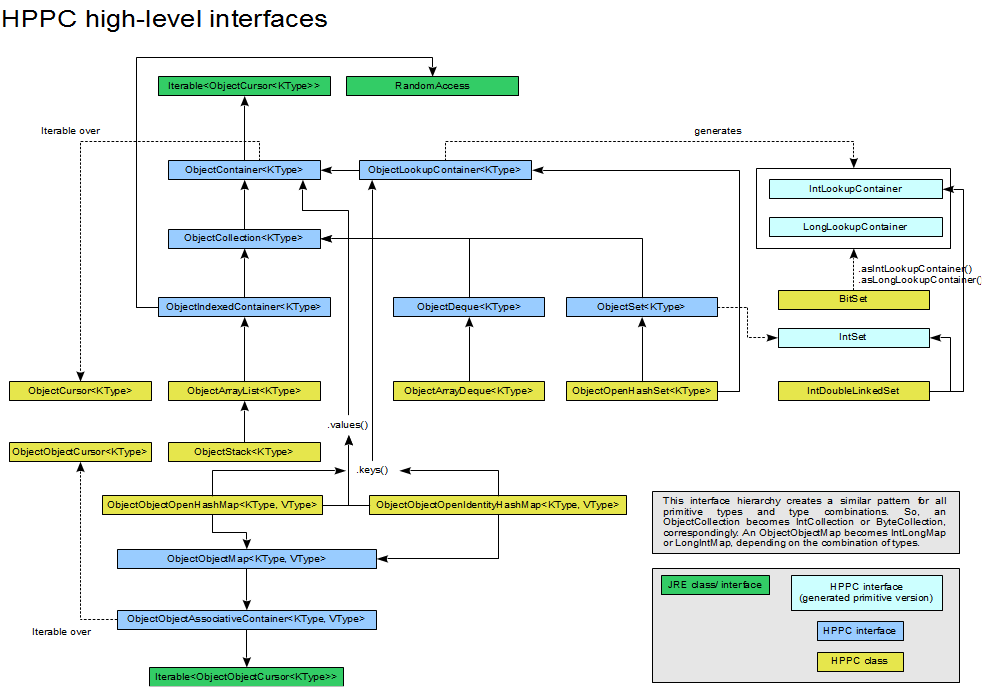
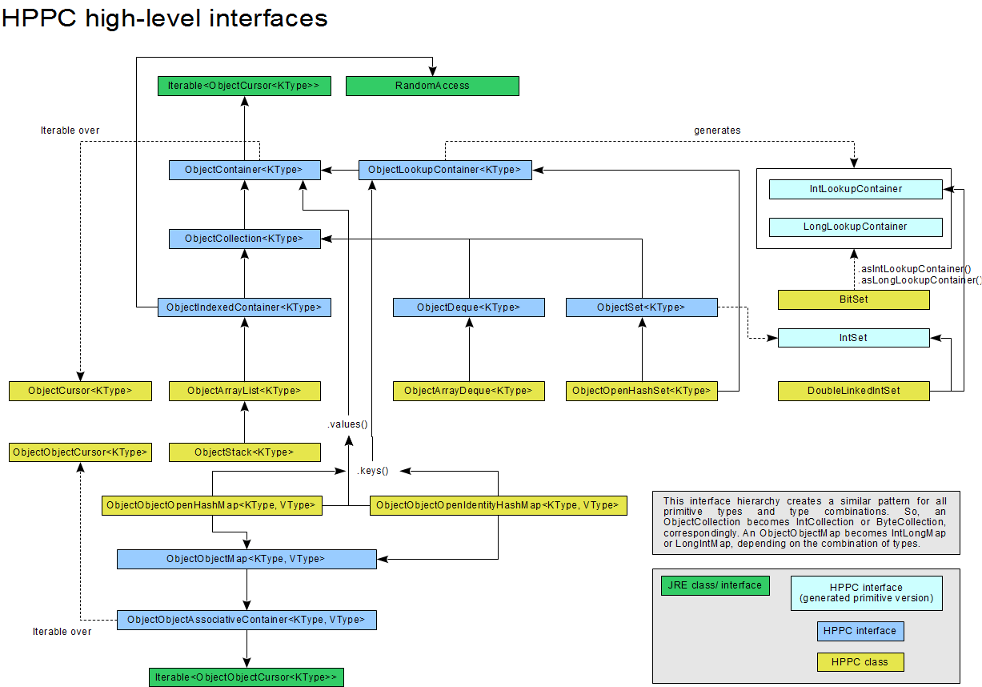
HPPC-108: Rename IntDoubleLinkedSet to DoubleLinkedIntSet

diff --git a/hppc/src/main/java/com/carrotsearch/hppc/DoubleLinkedIntSet.java b/hppc/src/main/java/com/carrotsearch/hppc/DoubleLinkedIntSet.java
@@ -18,7 +18,7 @@ import static com.carrotsearch.hppc.Containers.*;
  * <a href="http://citeseerx.ist.psu.edu/viewdoc/summary?doi=10.1.1.30.7319">
  * Preston Briggs and Linda Torczon's paper "An Efficient Representation for Sparse Sets"</a></p>
  */
-public class IntDoubleLinkedSet implements IntLookupContainer, IntSet, Cloneable
+public class DoubleLinkedIntSet implements IntLookupContainer, IntSet, Cloneable
 {
     /**
      * Dense array of set elements. 
@@ -45,7 +45,7 @@ public class IntDoubleLinkedSet implements IntLookupContainer, IntSet, Cloneable
      * 
      * @see BoundedProportionalArraySizingStrategy
      */
-    public IntDoubleLinkedSet()
+    public DoubleLinkedIntSet()
     {
         this(DEFAULT_EXPECTED_ELEMENTS, 0);
     }
@@ -59,7 +59,7 @@ public class IntDoubleLinkedSet implements IntLookupContainer, IntSet, Cloneable
      * 
      * @see BoundedProportionalArraySizingStrategy
      */
-    public IntDoubleLinkedSet(int denseCapacity, int sparseCapacity)
+    public DoubleLinkedIntSet(int denseCapacity, int sparseCapacity)
     {
         this(denseCapacity, sparseCapacity, new BoundedProportionalArraySizingStrategy());
     }
@@ -69,7 +69,7 @@ public class IntDoubleLinkedSet implements IntLookupContainer, IntSet, Cloneable
      * 
      * @see #ensureCapacity
      */
-    public IntDoubleLinkedSet(int expectedElements, int maxElementValue, ArraySizingStrategy resizer)
+    public DoubleLinkedIntSet(int expectedElements, int maxElementValue, ArraySizingStrategy resizer)
     {
         assert expectedElements >= 0 : "Expected elements must be >= 0: " + expectedElements;
         assert maxElementValue >= 0 : "Max element value must be >= 0: " + maxElementValue;
@@ -82,7 +82,7 @@ public class IntDoubleLinkedSet implements IntLookupContainer, IntSet, Cloneable
     /**
      * Creates a set from elements of another container.
      */
-    public IntDoubleLinkedSet(IntContainer container)
+    public DoubleLinkedIntSet(IntContainer container)
     {
         this(container.size(), 1 + maxElement(container));
         for (IntCursor cursor : container)
@@ -420,10 +420,10 @@ public class IntDoubleLinkedSet implements IntLookupContainer, IntSet, Cloneable
      * Create a set from a variable number of arguments or an array of <code>int</code>.
      * The elements are copied from the argument to the internal buffer.
      */
-    public static IntDoubleLinkedSet from(int... elements)
+    public static DoubleLinkedIntSet from(int... elements)
     {
-        final IntDoubleLinkedSet set = 
-            new IntDoubleLinkedSet(elements.length, 1 + maxElement(elements));
+        final DoubleLinkedIntSet set = 
+            new DoubleLinkedIntSet(elements.length, 1 + maxElement(elements));
         for (int i : elements)
             set.addNoChecks(i);
         return set;
@@ -432,17 +432,17 @@ public class IntDoubleLinkedSet implements IntLookupContainer, IntSet, Cloneable
     /**
      * Create a set from elements of another container.
      */
-    public static IntDoubleLinkedSet from(IntContainer container)
+    public static DoubleLinkedIntSet from(IntContainer container)
     {
-        return new IntDoubleLinkedSet(container);
+        return new DoubleLinkedIntSet(container);
     }
 
     /**
      * Static constructor-like method similar to other (generic) collections. 
      */
-    public static IntDoubleLinkedSet newInstance()
+    public static DoubleLinkedIntSet newInstance()
     {
-        return new IntDoubleLinkedSet();
+        return new DoubleLinkedIntSet();
     }
     
     /**
@@ -471,11 +471,11 @@ public class IntDoubleLinkedSet implements IntLookupContainer, IntSet, Cloneable
      * Clone this object.
      */
     @Override
-    public IntDoubleLinkedSet clone()
+    public DoubleLinkedIntSet clone()
     {
         try
         {
-            IntDoubleLinkedSet cloned = (IntDoubleLinkedSet) super.clone();
+            DoubleLinkedIntSet cloned = (DoubleLinkedIntSet) super.clone();
             cloned.dense = dense.clone();
             cloned.sparse = sparse.clone();
             return cloned;

diff --git a/hppc/src/test/java/com/carrotsearch/hppc/IntDoubleLinkedSetTest.java b/hppc/src/test/java/com/carrotsearch/hppc/IntDoubleLinkedSetTest.java
@@ -12,14 +12,14 @@ import com.carrotsearch.hppc.predicates.IntPredicate;
 import com.carrotsearch.randomizedtesting.RandomizedTest;
 
 /**
- * Unit tests for {@link IntDoubleLinkedSet}.
+ * Unit tests for {@link DoubleLinkedIntSet}.
  */
 public class IntDoubleLinkedSetTest<KType> extends RandomizedTest
 {
     /**
      * Per-test fresh initialized instance.
      */
-    public IntDoubleLinkedSet set;
+    public DoubleLinkedIntSet set;
 
     int key1 = 1;
     int key2 = 2;
@@ -35,7 +35,7 @@ public class IntDoubleLinkedSetTest<KType> extends RandomizedTest
     @Before
     public void initialize()
     {
-        set = new IntDoubleLinkedSet();
+        set = new DoubleLinkedIntSet();
     }
 
     /* */
@@ -80,7 +80,7 @@ public class IntDoubleLinkedSetTest<KType> extends RandomizedTest
     @Test
     public void testAddAll()
     {
-        IntDoubleLinkedSet set2 = new IntDoubleLinkedSet();
+        DoubleLinkedIntSet set2 = new DoubleLinkedIntSet();
         set2.add(1, 2);
         set.add(0, 1);
 
@@ -108,7 +108,7 @@ public class IntDoubleLinkedSetTest<KType> extends RandomizedTest
     public void testEnsureCapacity()
     {
         TightRandomResizingStrategy resizer = new TightRandomResizingStrategy(0);
-        IntDoubleLinkedSet set = new IntDoubleLinkedSet(0, 0, resizer);
+        DoubleLinkedIntSet set = new DoubleLinkedIntSet(0, 0, resizer);
 
         // Add some elements.
         final int max = rarely() ? 0 : randomIntBetween(0, 1000);
@@ -135,7 +135,7 @@ public class IntDoubleLinkedSetTest<KType> extends RandomizedTest
     {
         for (int i = 0; i < 256; i++)
         {
-            IntDoubleLinkedSet set = new IntDoubleLinkedSet(i, i);
+            DoubleLinkedIntSet set = new DoubleLinkedIntSet(i, i);
 
             for (int j = 0; j < i; j++)
             {
@@ -231,7 +231,7 @@ public class IntDoubleLinkedSetTest<KType> extends RandomizedTest
         IntOpenHashSet list2 = new IntOpenHashSet();
         list2.addAll(1, 3, 5);
 
-        set = new IntDoubleLinkedSet(list2);
+        set = new DoubleLinkedIntSet(list2);
         assertEquals(3, set.size());
         assertSortedListEquals(list2.toArray(), set.toArray());
     }
@@ -243,8 +243,8 @@ public class IntDoubleLinkedSetTest<KType> extends RandomizedTest
         IntOpenHashSet list2 = new IntOpenHashSet();
         list2.addAll(1, 3, 5);
 
-        IntDoubleLinkedSet s1 = IntDoubleLinkedSet.from(1, 3, 5);
-        IntDoubleLinkedSet s2 = IntDoubleLinkedSet.from(1, 3, 5);
+        DoubleLinkedIntSet s1 = DoubleLinkedIntSet.from(1, 3, 5);
+        DoubleLinkedIntSet s2 = DoubleLinkedIntSet.from(1, 3, 5);
 
         assertSortedListEquals(list2.toArray(), s1.toArray());
         assertSortedListEquals(list2.toArray(), s2.toArray());
@@ -254,7 +254,7 @@ public class IntDoubleLinkedSetTest<KType> extends RandomizedTest
     @Test
     public void testToString()
     {
-        assertEquals("[1, 3, 5]", IntDoubleLinkedSet.from(1, 3, 5).toString());
+        assertEquals("[1, 3, 5]", DoubleLinkedIntSet.from(1, 3, 5).toString());
     }
     
     /* */
@@ -263,7 +263,7 @@ public class IntDoubleLinkedSetTest<KType> extends RandomizedTest
     {
         set.add(1, 2, 3);
         
-        IntDoubleLinkedSet cloned = set.clone();
+        DoubleLinkedIntSet cloned = set.clone();
         cloned.remove(1);
 
         assertSortedListEquals(set.toArray(), 1, 2, 3);
